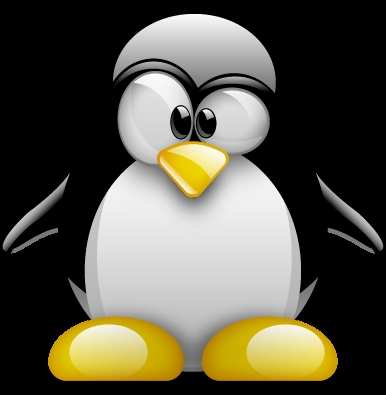
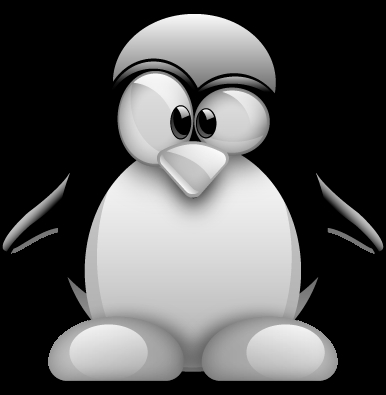
update

Changed region(s): [[0.1244, 0.7899, 0.9016, 0.9722], [0.4041, 0.3342, 0.5907, 0.5165]]

diff --git a/src/image/getPixel.cc b/src/image/getPixel.cc
@@ -7,7 +7,7 @@ std::vector<std::vector<uint8_t>> Image::getPixels() {
   return pixels;
 }
 
-// We create a function to return the requested RGB value
+// We create a function to return the requested pixel values
 std::vector<uint8_t> Image::getPixel(unsigned int x, unsigned int y) {
 
   // If the X or Y value is out of range, we throw an error
@@ -18,7 +18,7 @@ std::vector<uint8_t> Image::getPixel(unsigned int x, unsigned int y) {
     throw std::runtime_error("Error : in Image::getPixel : The Y value is out of range");
   }
 
-  // We create a vector to store the RGB values
+  // We create a vector to store the pixel values
   std::vector<uint8_t> pixel;
 
   // We push the pixels values in the vector
@@ -44,15 +44,15 @@ uint8_t Image::getLuminance(unsigned int x, unsigned int y) {
   // We store the luminance into a variable
   uint8_t luminance = 0;
 
-  // If the image is monochrome
-  if(pixelSize == 1) {
+  // If the image is monochrome...
+  if(colorSpace == 1) {
 
     // We get the luminance with the pixel value
-    luminance = pixels[y][x];
+    luminance = pixels[y][x * pixelSize];
   }
 
   // Else if the image is colored
-  else if(pixelSize == 3 || pixelSize == 4) {
+  else if(colorSpace == 2) {
 
     // We create a vector to store the RGB values
     std::vector<uint8_t> pixel = getPixel(x, y);

diff --git a/src/image/convertToGrayscale.cc b/src/image/convertToGrayscale.cc
@@ -5,7 +5,7 @@
 // We create a function to convert the image to grayscale
 void Image::convertToGrayscale() {
 
-  // We check the actual pixel size
+  // We check the actual color space
   if(colorSpace == 1) {
     throw std::runtime_error("Error : in Image::convertToGrayscale : the image is already monochrome");
   }
@@ -28,6 +28,9 @@ void Image::convertToGrayscale() {
 
       // We push the luminance of the pixel
       newLine.push_back(getLuminance(j, i));
+
+      // If the alpha channel is used, we push the alpha value
+      newLine.push_back(getAlphaValue(j, i));
     }
     // We push the new line into the newPixels vector
     newPixels.push_back(newLine);
@@ -37,6 +40,6 @@ void Image::convertToGrayscale() {
   pixels = newPixels;
 
   // We update the image informations
-  pixelSize = 1;
+  pixelSize = pixelSize - 2;
   colorSpace = 1;
 }

diff --git a/src/image/image.h b/src/image/image.h
@@ -25,7 +25,7 @@ class Image {
     // We create a function to return the image
     std::vector<std::vector<uint8_t>> getPixels();
 
-    // We create a function to return the RGB value of a pixel
+    // We create a function to return the requested pixel values
     std::vector<uint8_t> getPixel(unsigned int x, unsigned int y);
 
     // We create a function to return the luminance of a pixel
@@ -54,6 +54,9 @@ class Image {
 
     // We create a function to show the edge of the objects of the image
     //void showEdgeOnly();
+
+    // We create a function to return the alpha value of a pixel
+    uint8_t getAlphaValue(unsigned int x, unsigned int y);
 
     // We create a function to remove the alpha channel of the image
     void removeAlphaChannel();

diff --git a/src/image/alphaChannel.cc b/src/image/alphaChannel.cc
@@ -2,6 +2,21 @@
 
 #include "image.h"
 
+// We create a function to return the alpha value of a pixel
+uint8_t Image::getAlphaValue(unsigned int x, unsigned int y) {
+
+  // We check the alpha channel
+  if(!alphaUsed) {
+    throw std::runtime_error("Error : in Image::getAlphaValue : alpha channel not found");
+  }
+
+  // We store the alpha value into a variable
+  uint8_t alphaValue = pixels[y][x * pixelSize + colorSpace];
+
+  // We return the alpha value
+  return alphaValue;
+}
+
 // We create a function to remove the alpha channel of the image
 void Image::removeAlphaChannel() {
 

diff --git a/examples/png_test/test.cc b/examples/png_test/test.cc
@@ -17,7 +17,8 @@ int main() {
   std::cout << "Image Pixel : X=3, Y=6 : R=" << +pixel[0] << " G=" << +pixel[1]  << " B=" << +pixel[2] << "\n";
   std::cout << "Image Luminance : X=3, Y=6 : " << +myImage.getLuminance(3, 6) << "\n";
 
-  //myImage.resize(60);
+  myImage.convertToGrayscale();
+
   myImage.removeAlphaChannel();
 
   char fileNameToSave[] = "../imageSamples/testSaved.jpg";
